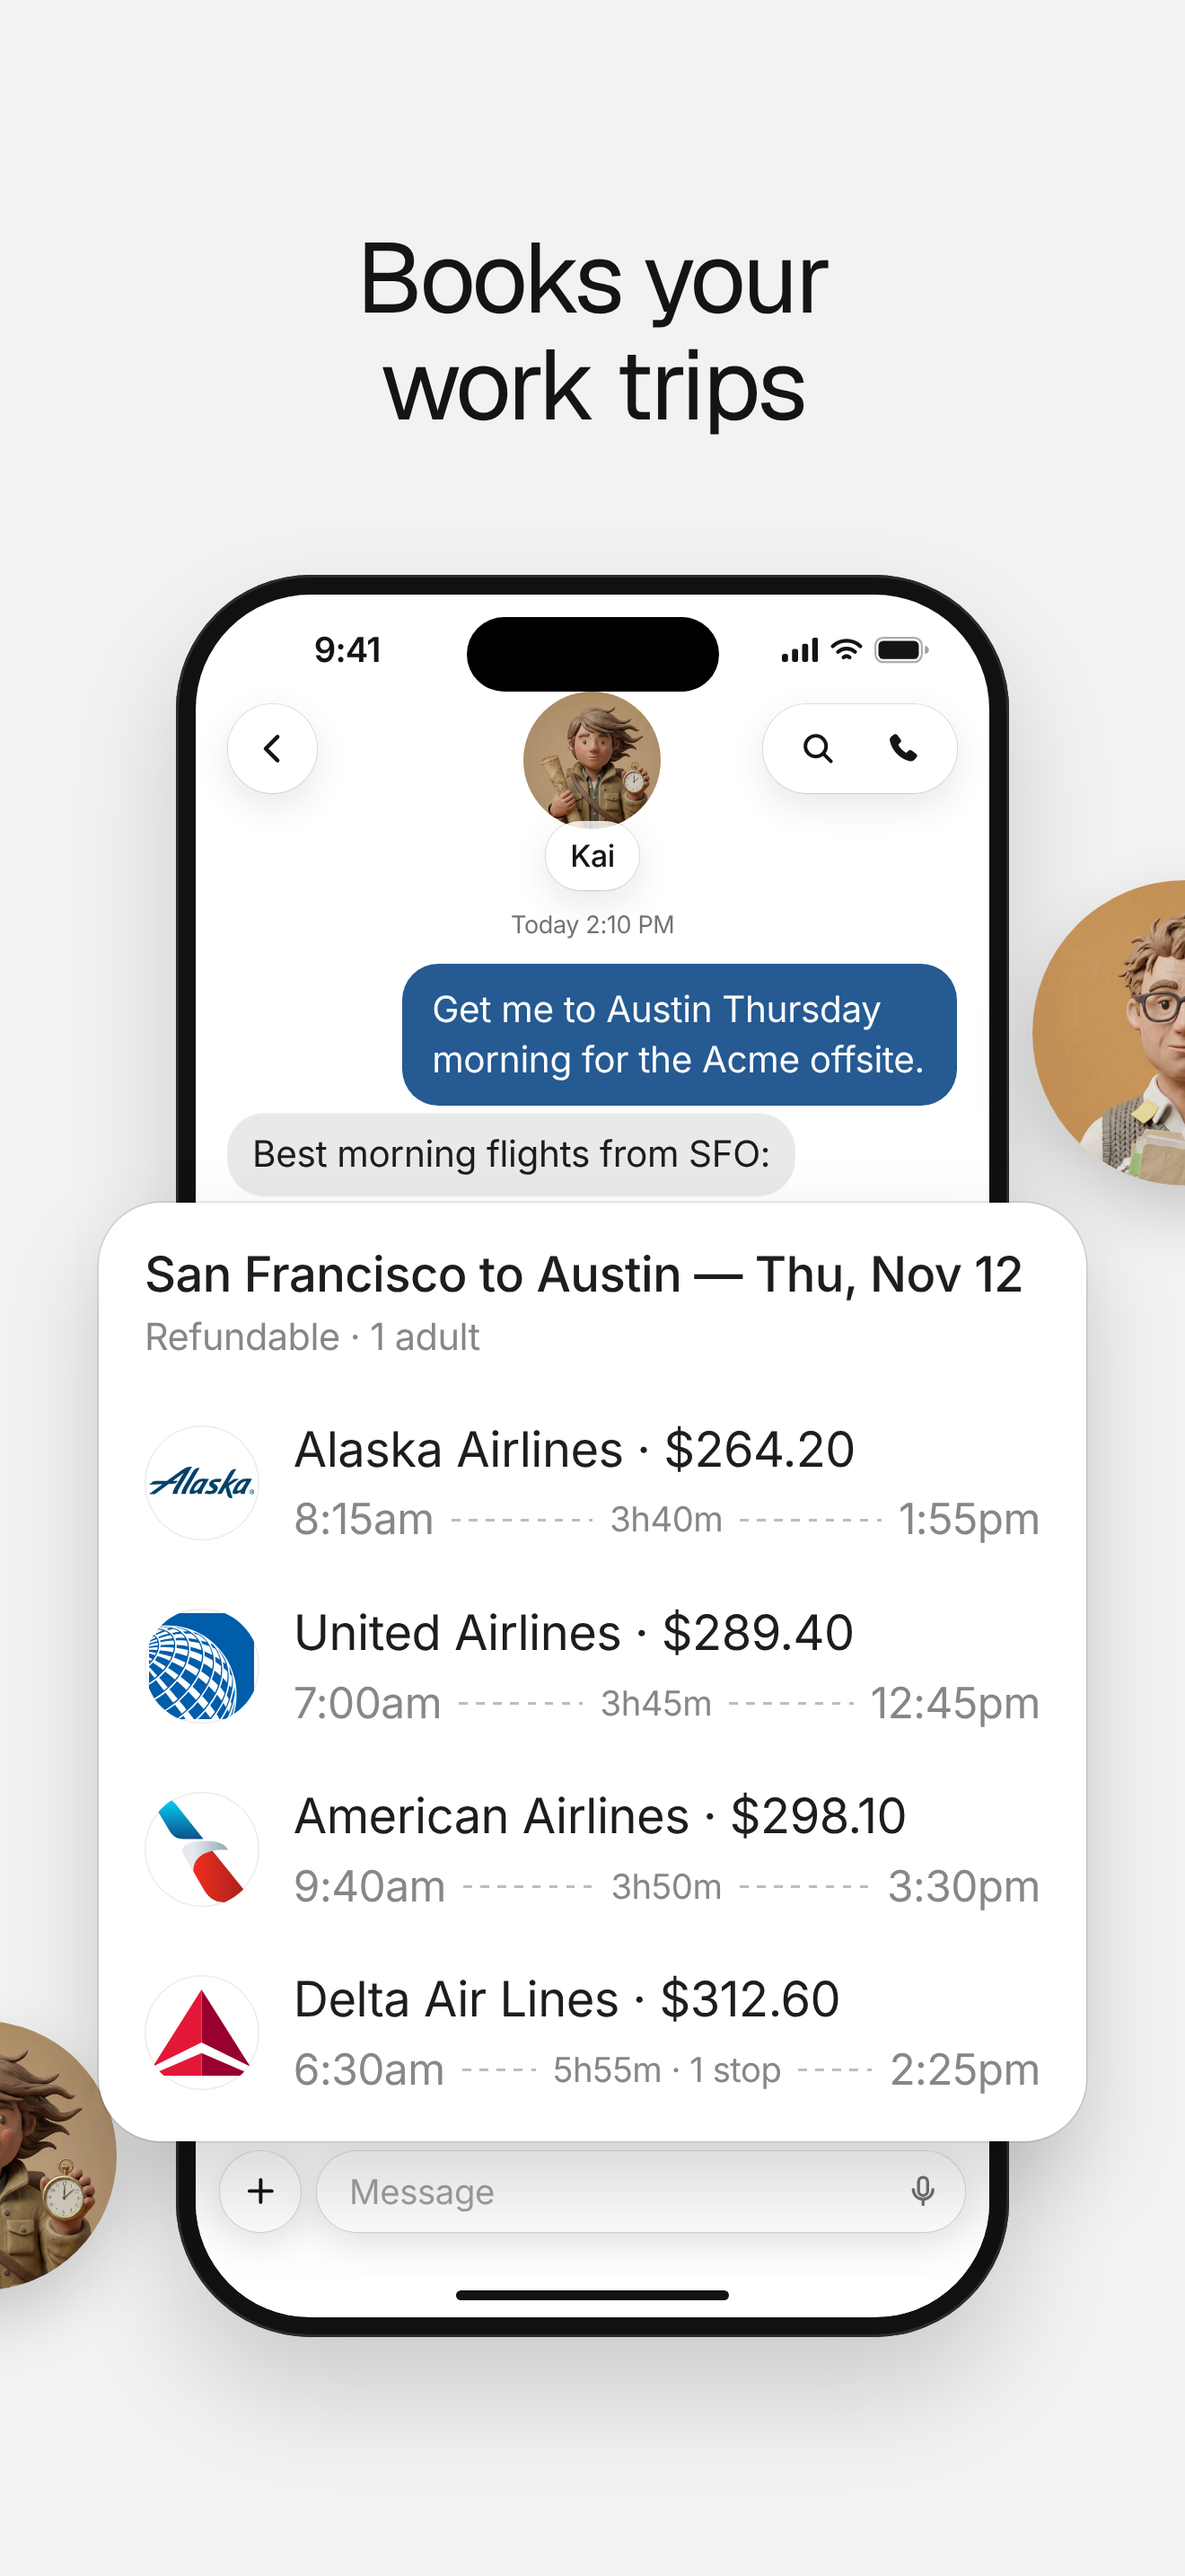
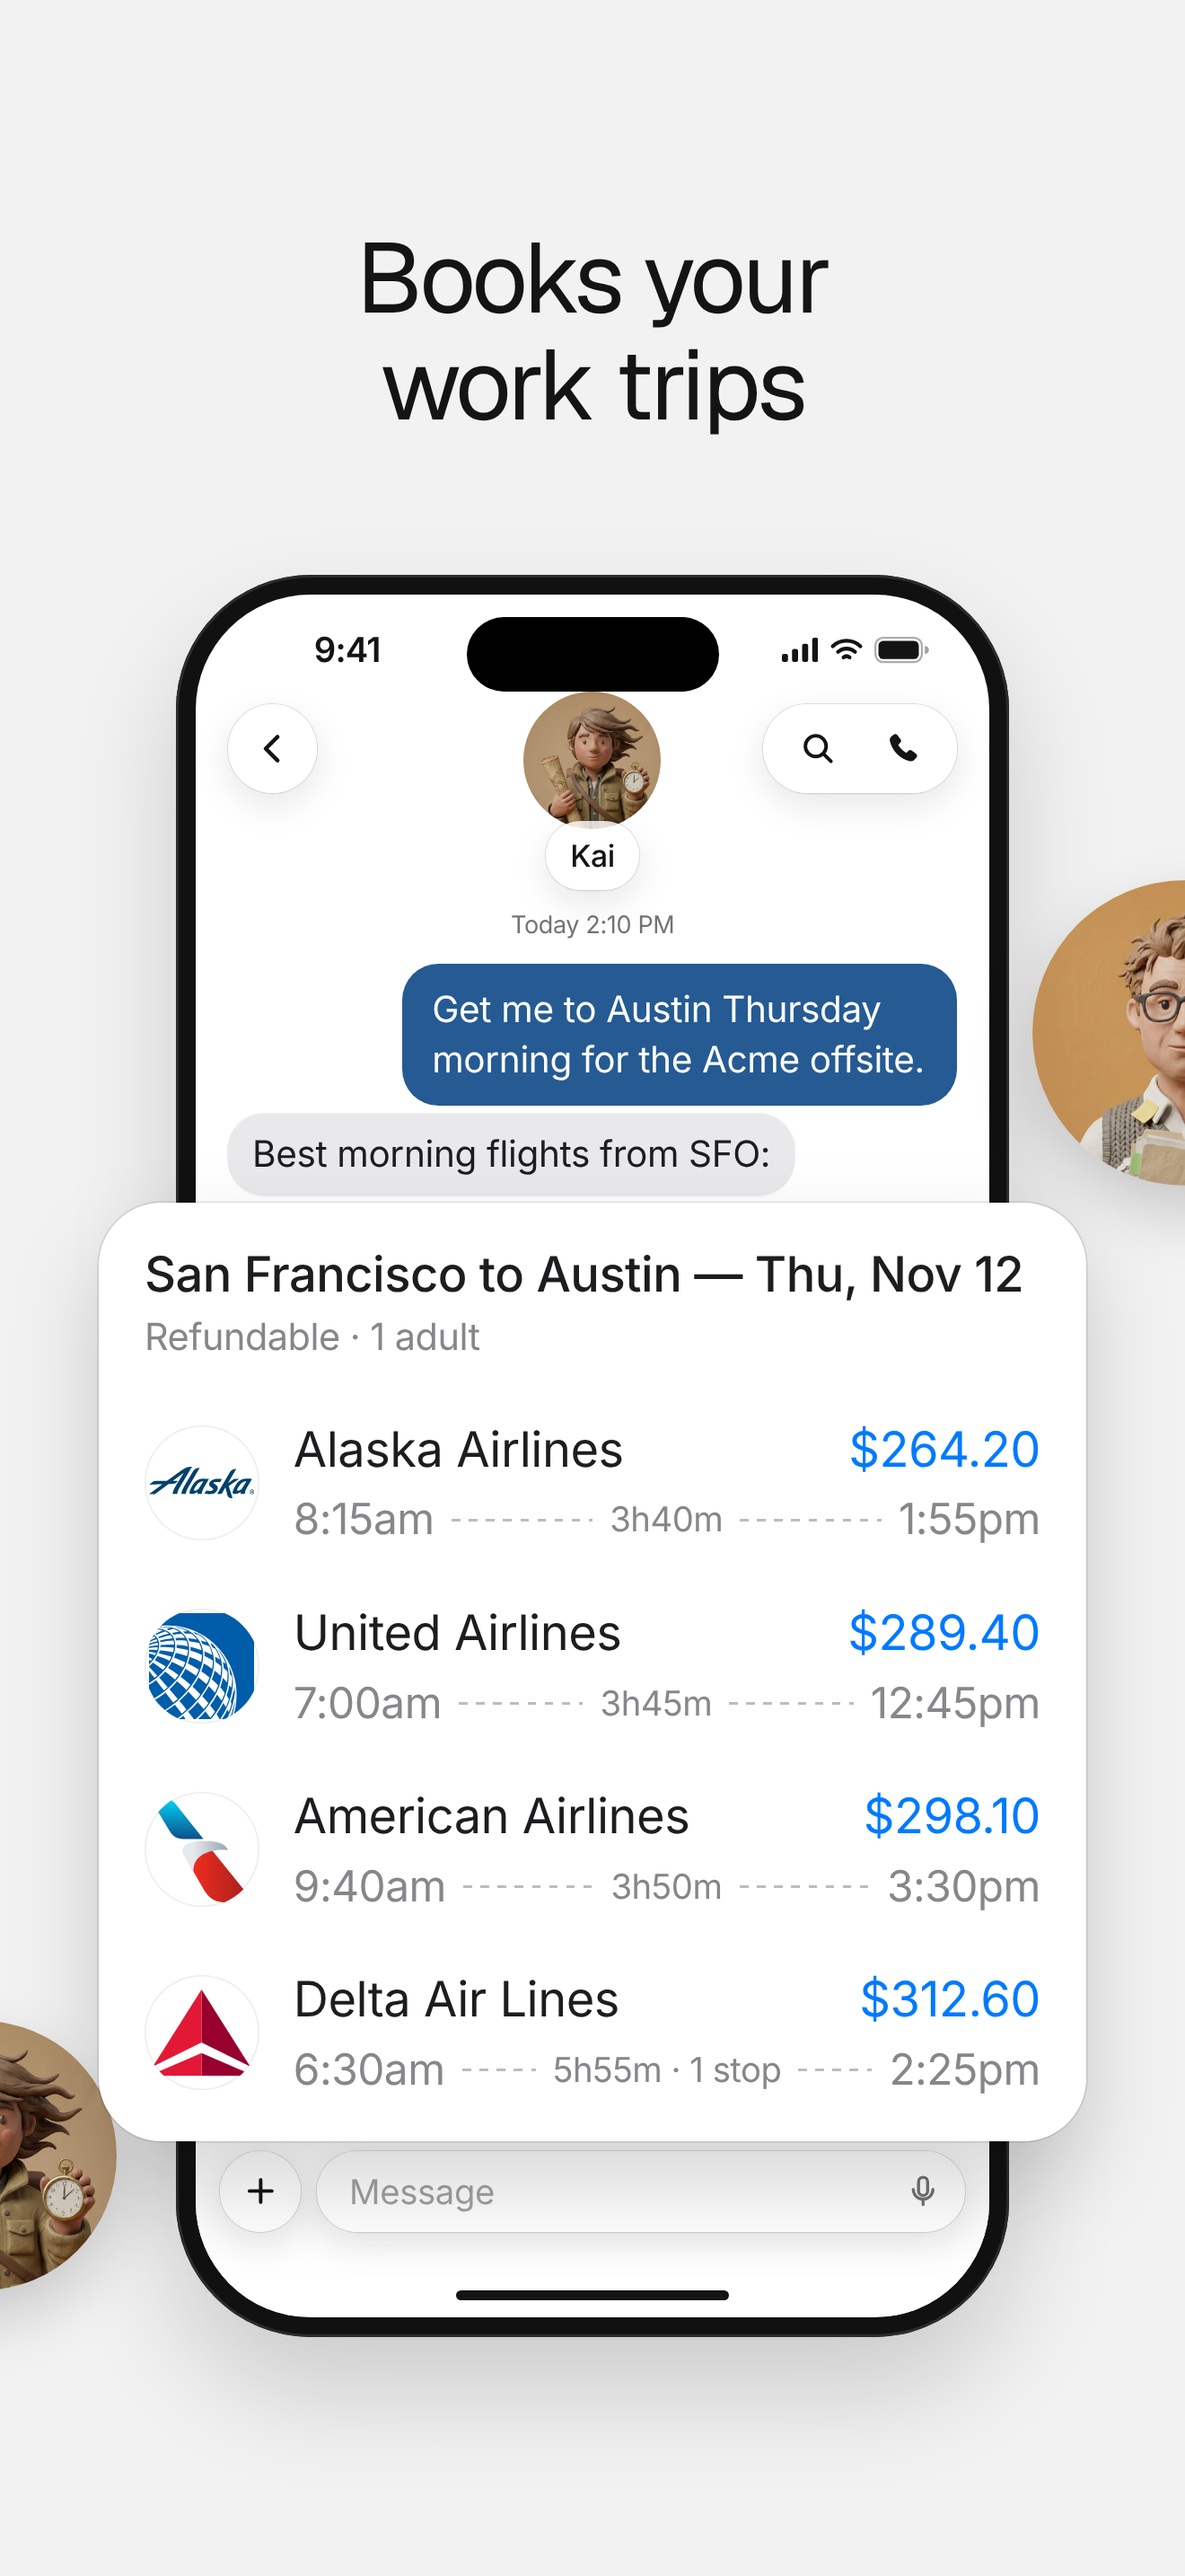
App Store screenshots: the cards' prices in the app's blue
The flights card's prices at the right of each airline, in Apple's blue as
the app draws them (FlightRow, Ink.appleBlue #007aff), and the Checkout
card's total in the same blue (the founder, 11 November 2026).

Claude-Session: https://claude.ai/code/session_01YVdXyUP5gsDTr44eH5Vte9

diff --git a/ios/AppStore/source/Travel.dc.html b/ios/AppStore/source/Travel.dc.html
@@ -65,10 +65,10 @@ body{margin:0}
               <div style="font-size: 13px; line-height: 18px; color: #86868b; margin-top: 2px">Refundable · 1 adult</div>
             </div>
             <div style="padding: 6px">
-              <div class="fl"><span class="mark"><img src="/_blob/a9454eb29b3dd00ba611a2b18bbdf12a" alt=""></span><div style="flex: 1; min-width: 0"><div class="who">Alaska Airlines · $264.20</div><div class="tm">8:15am<i></i><small>3h40m</small><i></i>1:55pm</div></div></div>
-              <div class="fl"><span class="mark"><img src="/_blob/e5adbc387ab998b7c40b41ddaed10683" alt=""></span><div style="flex: 1; min-width: 0"><div class="who">United Airlines · $289.40</div><div class="tm">7:00am<i></i><small>3h45m</small><i></i>12:45pm</div></div></div>
-              <div class="fl"><span class="mark"><img src="/_blob/4392727449fdddeae02efe0a3e1dd487" alt=""></span><div style="flex: 1; min-width: 0"><div class="who">American Airlines · $298.10</div><div class="tm">9:40am<i></i><small>3h50m</small><i></i>3:30pm</div></div></div>
-              <div class="fl"><span class="mark"><img src="/_blob/c329f442c11dfc14d7c11ad3ed5ad790" alt=""></span><div style="flex: 1; min-width: 0"><div class="who">Delta Air Lines · $312.60</div><div class="tm">6:30am<i></i><small>5h55m · 1 stop</small><i></i>2:25pm</div></div></div>
+              <div class="fl"><span class="mark"><img src="/_blob/a9454eb29b3dd00ba611a2b18bbdf12a" alt=""></span><div style="flex: 1; min-width: 0"><div class="who" style="display: flex; gap: 8px"><span style="flex: 1">Alaska Airlines</span><span style="color: #007aff">$264.20</span></div><div class="tm">8:15am<i></i><small>3h40m</small><i></i>1:55pm</div></div></div>
+              <div class="fl"><span class="mark"><img src="/_blob/e5adbc387ab998b7c40b41ddaed10683" alt=""></span><div style="flex: 1; min-width: 0"><div class="who" style="display: flex; gap: 8px"><span style="flex: 1">United Airlines</span><span style="color: #007aff">$289.40</span></div><div class="tm">7:00am<i></i><small>3h45m</small><i></i>12:45pm</div></div></div>
+              <div class="fl"><span class="mark"><img src="/_blob/4392727449fdddeae02efe0a3e1dd487" alt=""></span><div style="flex: 1; min-width: 0"><div class="who" style="display: flex; gap: 8px"><span style="flex: 1">American Airlines</span><span style="color: #007aff">$298.10</span></div><div class="tm">9:40am<i></i><small>3h50m</small><i></i>3:30pm</div></div></div>
+              <div class="fl"><span class="mark"><img src="/_blob/c329f442c11dfc14d7c11ad3ed5ad790" alt=""></span><div style="flex: 1; min-width: 0"><div class="who" style="display: flex; gap: 8px"><span style="flex: 1">Delta Air Lines</span><span style="color: #007aff">$312.60</span></div><div class="tm">6:30am<i></i><small>5h55m · 1 stop</small><i></i>2:25pm</div></div></div>
             </div>
           </div>
 

diff --git a/ios/AppStore/source/Shopping.dc.html b/ios/AppStore/source/Shopping.dc.html
@@ -105,7 +105,7 @@ body{margin:0}
             </div>
             <div style="margin-top: -14px">
               <div style="height: 1px; background: rgba(20,20,20,0.1)"></div>
-              <div style="display: flex; align-items: center; padding: 10px 0"><span style="font-size: 15px; color: #86868b">Total</span><span style="margin-left: auto; font-size: 17px; font-weight: 600; color: #1d1d1f; font-variant-numeric: tabular-nums">$987.00</span></div>
+              <div style="display: flex; align-items: center; padding: 10px 0"><span style="font-size: 15px; color: #86868b">Total</span><span style="margin-left: auto; font-size: 17px; font-weight: 600; color: #007aff; font-variant-numeric: tabular-nums">$987.00</span></div>
             </div>
             <div style="display: flex; gap: 8px">
               <span class="cap" style="background: #ffffff; color: #141414">Deny</span>
